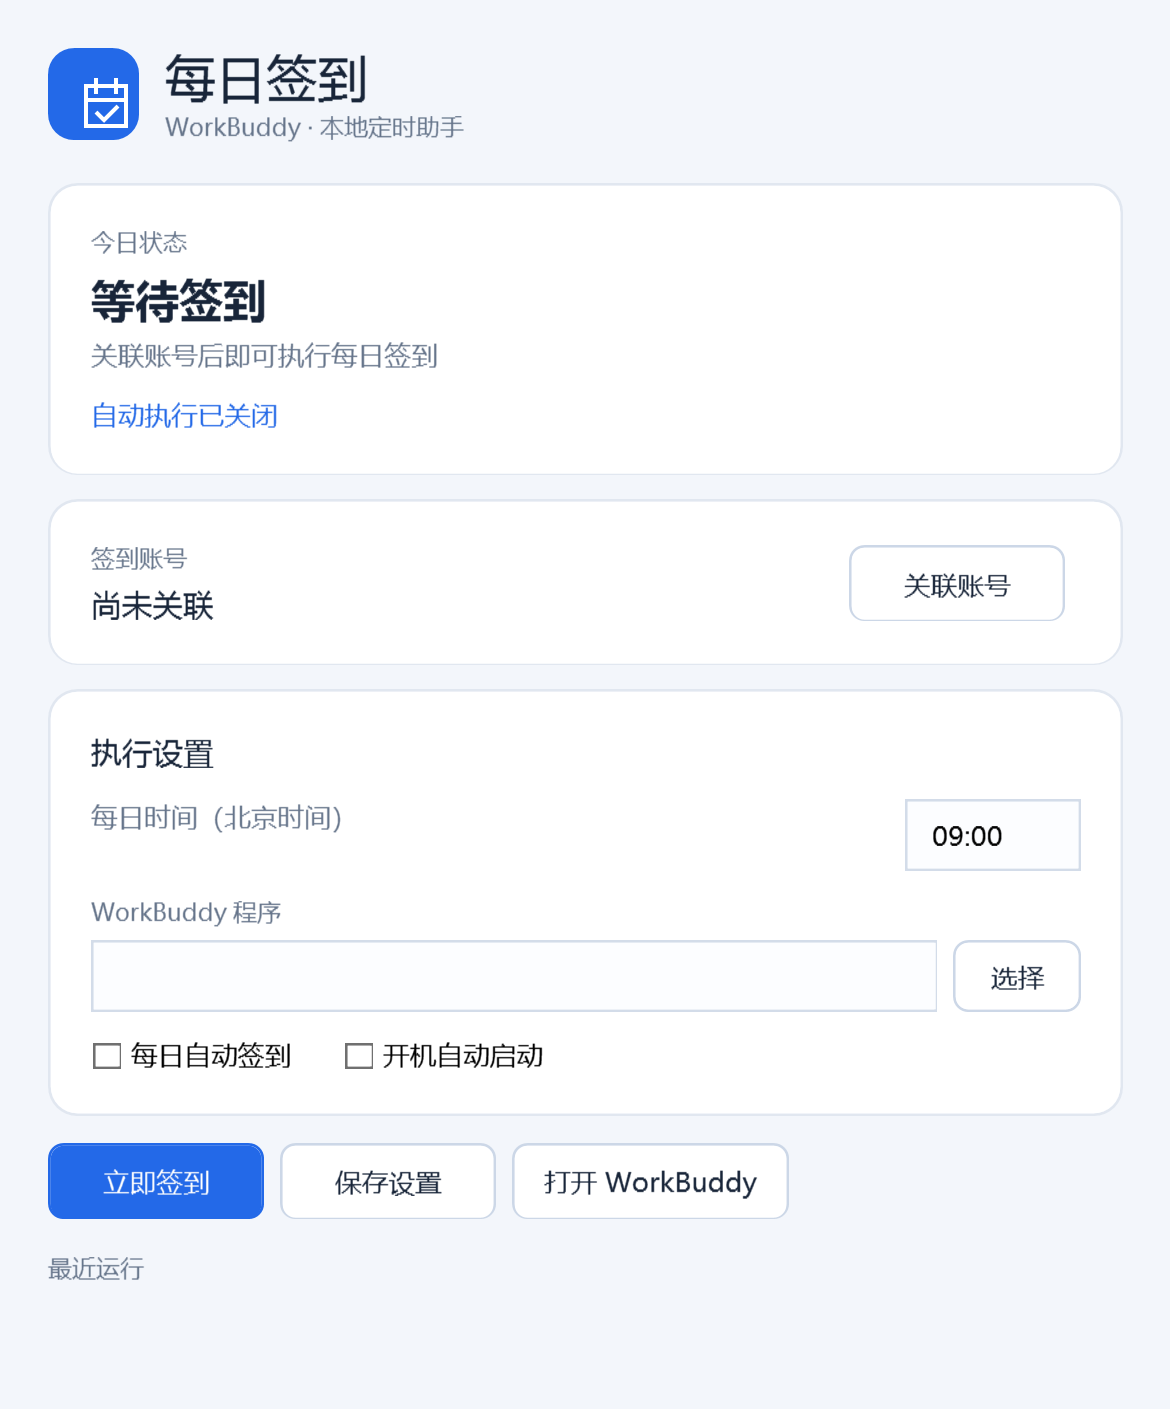
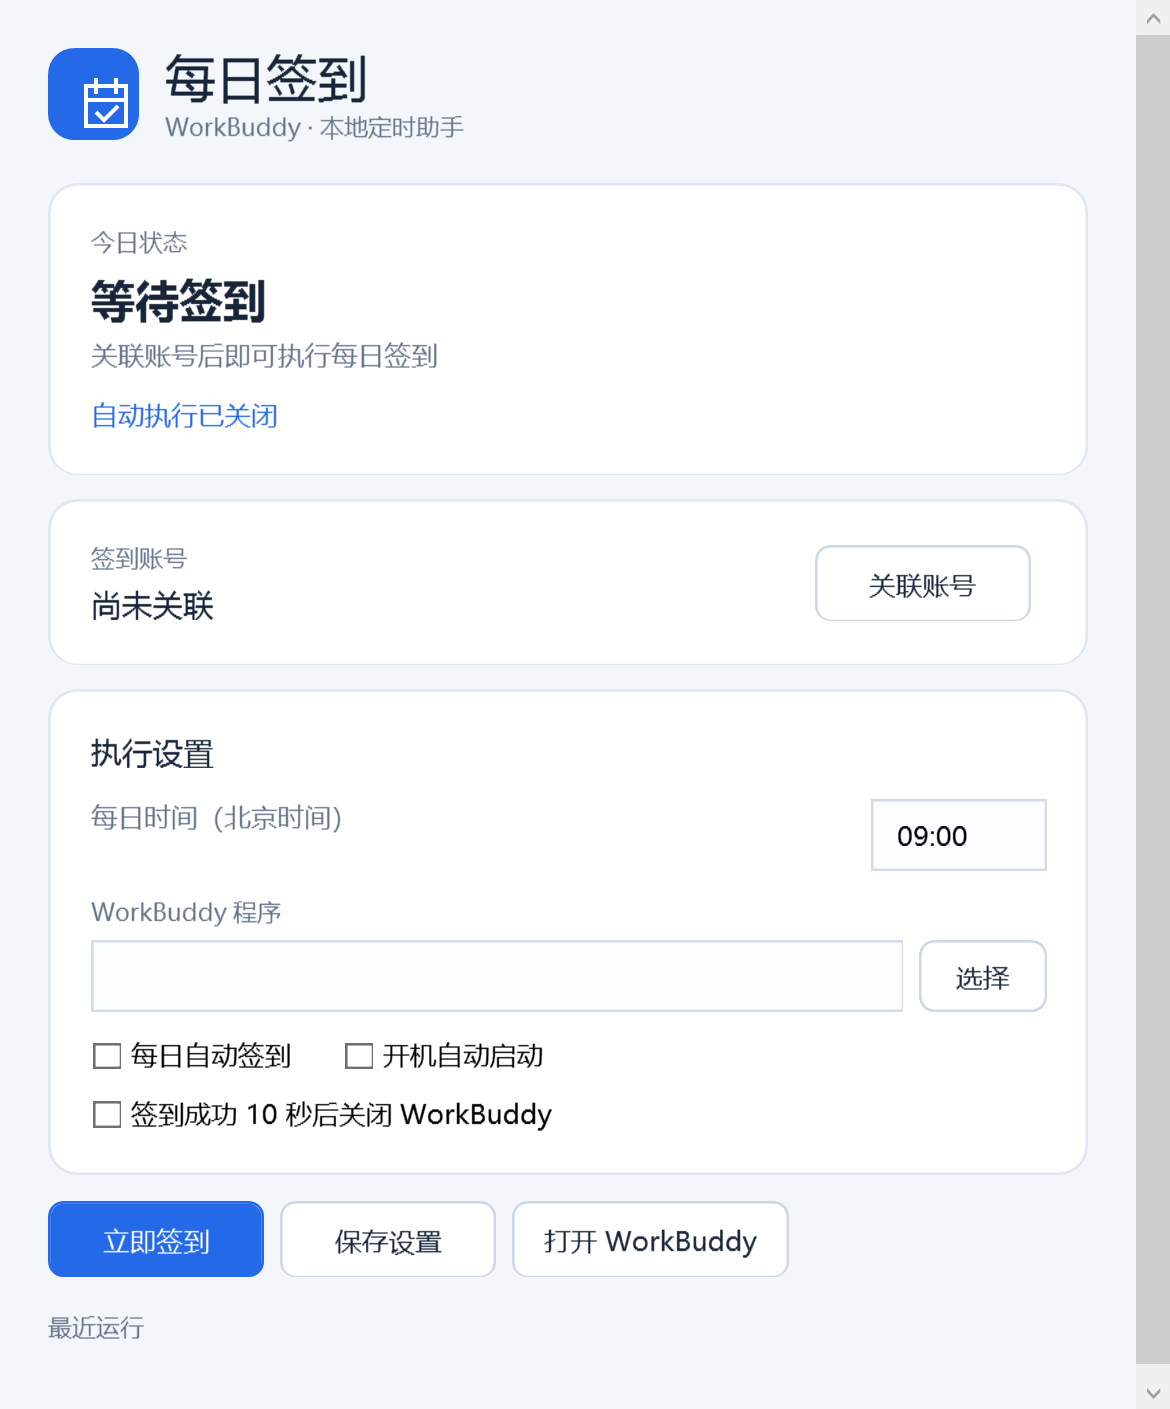
Document optional verified WorkBuddy shutdown in v0.1.2

diff --git a/docs/release-0.1.2.md b/docs/release-0.1.2.md
@@ -1,0 +1,9 @@
+## v0.1.2
+
+- 新增“签到成功 10 秒后关闭 WorkBuddy”选项，默认关闭，勾选后保存设置生效。
+- 修复关闭窗口后仍驻留托盘的问题；若 3 秒后仍在后台运行，会结束对应进程并确认退出。
+- 今日已签到时，手动执行也可触发关闭，无需重复签到。
+
+开启自动关闭时，请避免同时运行其他 WorkBuddy 任务。
+
+下载 ZIP 并完整解压，运行 `WorkBuddyDaily.exe`。支持 Windows 10/11，需要 .NET Framework 4.8。更新时先退出旧版助手，再替换程序文件；本机保存的账号与设置会保留。发行包不含账号、令牌或个人配置。
